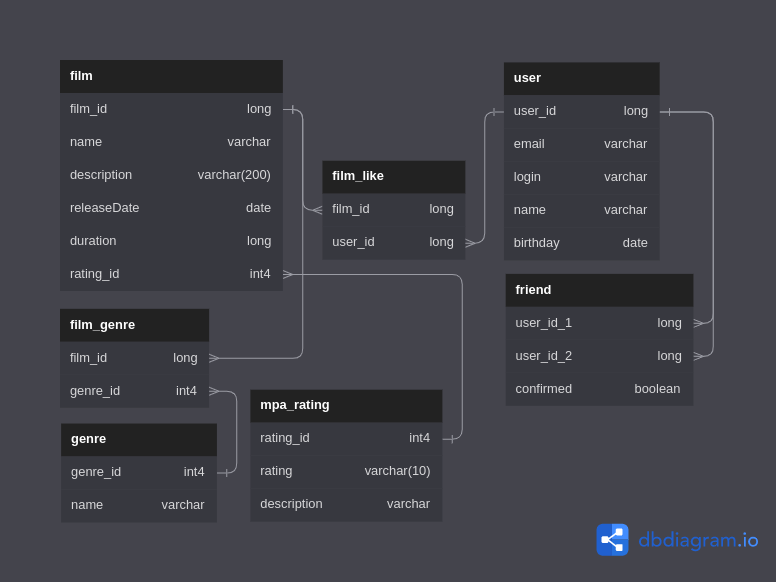
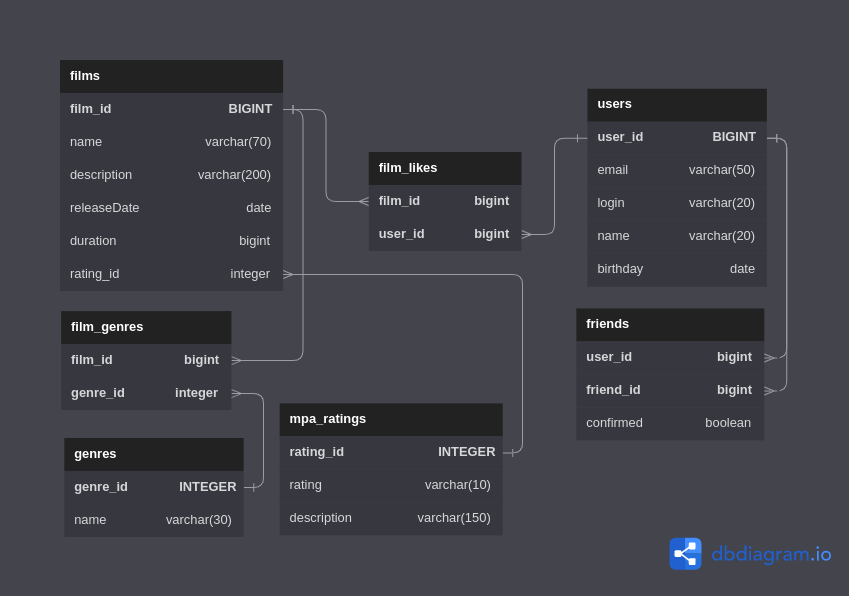
feat: Добавить schema.sql и data.sql; Зависимости для H2; Изменить диаграмму и примеры запросов;

diff --git a/README.md b/README.md
@@ -7,15 +7,15 @@
 #### Пример запроса - получить все фильмы
 ```SQL
 select *
-from film
+from films
 ```
 #### Пример запроса - получить топ 10 наиболее популярных фильмов
 ```SQL
 SELECT f.name
-FROM film f
+FROM films f
 JOIN (
     SELECT film_id
-    FROM film_like
+    FROM film_likes
     GROUP BY film_id
     ORDER BY COUNT(user_id) DESC
     LIMIT 10) t ON t.film_id = f.film_id   
@@ -23,12 +23,10 @@ JOIN (
 #### Пример запроса - получить всех пользователей
 ```SQL
 select *
-from user
+from users
 ```
 #### Пример запроса - список общих друзей с другим пользователем
 ```SQL
---На данном этапе разработки пользователями являются друзьями друг друга.
---Соответственно отбор необходимо делать и в первом и во втором поле
 --Имея id двух пользователей: me_id и other_id
 
 SELECT u.user_id, u.name
@@ -36,21 +34,14 @@ FROM user u
 JOIN (
     SELECT f.fr_Id 
     FROM (
-        SELECT 
-            CASE
-                WHEN me_id = user_id_1 THEN user_id_2
-                ELSE user_id_1
-            END AS fr_Id
-        FROM friend  
-        WHERE me_id IN (user_id_1, user_id_2) AND confirmed IS TRUE) f
+        SELECT friend_id AS fr_Id
+        FROM friends  
+        WHERE me_id = user_id AND confirmed IS TRUE
+    ) f
     JOIN (
-        SELECT 
-            CASE
-                WHEN other_id = user_id_1 THEN user_id_2
-                ELSE user_id_1
-            END AS fr_Id
-        FROM friend  
-        WHERE other_id IN (user_id_1, user_id_2) AND confirmed IS TRUE
+        SELECT friend_id AS fr_Id
+        FROM friends  
+        WHERE other_id = user_id AND confirmed IS TRUE
     ) t ON t.fr_Id = f.fr_Id
 ) mutual ON u.user_id = mutual.fr_Id 
 ```
